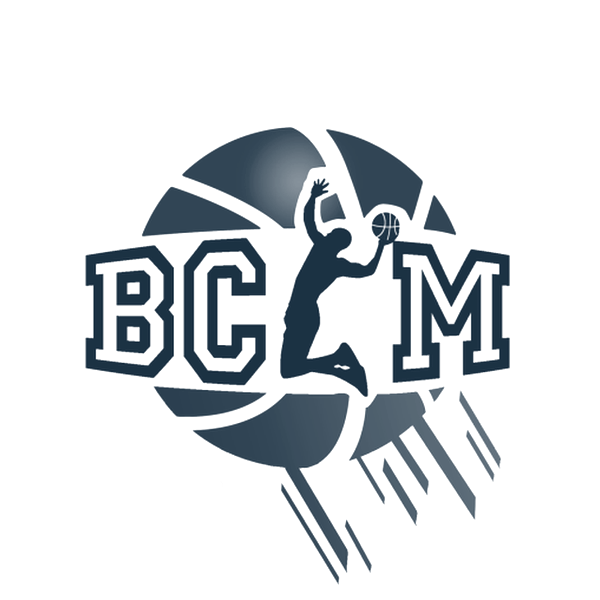
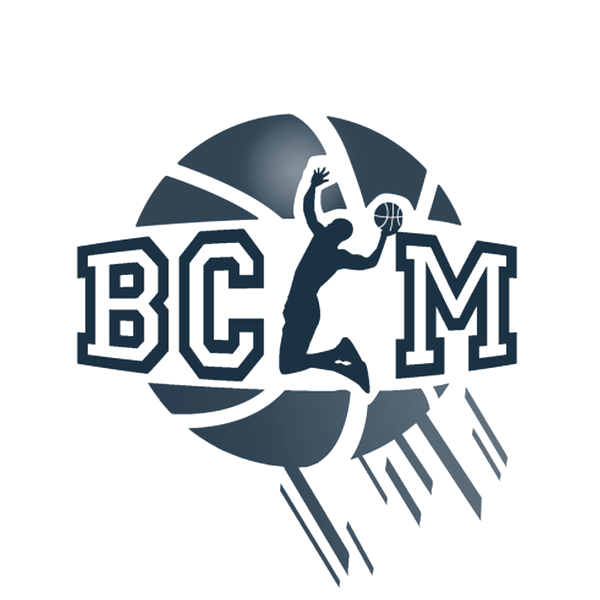
Add files via upload

diff --git a/style.css b/style.css
@@ -298,7 +298,7 @@ a:focus-visible,button:focus-visible{outline:3px solid var(--gold);outline-offse
 /* trois marges au choix selon la forme du logo :
    serre pour les très allongés, moyen pour ceux qui débordent un peu */
 .bp-item img.serre{padding:5%}
-.bp-item img.moyen{padding:12%}
+.bp-item img.moyen{padding:9%}
 .bp-item:focus-visible{outline:3px solid var(--gold);outline-offset:3px}
 
 /* le défilement : la piste contient deux fois la même série,
